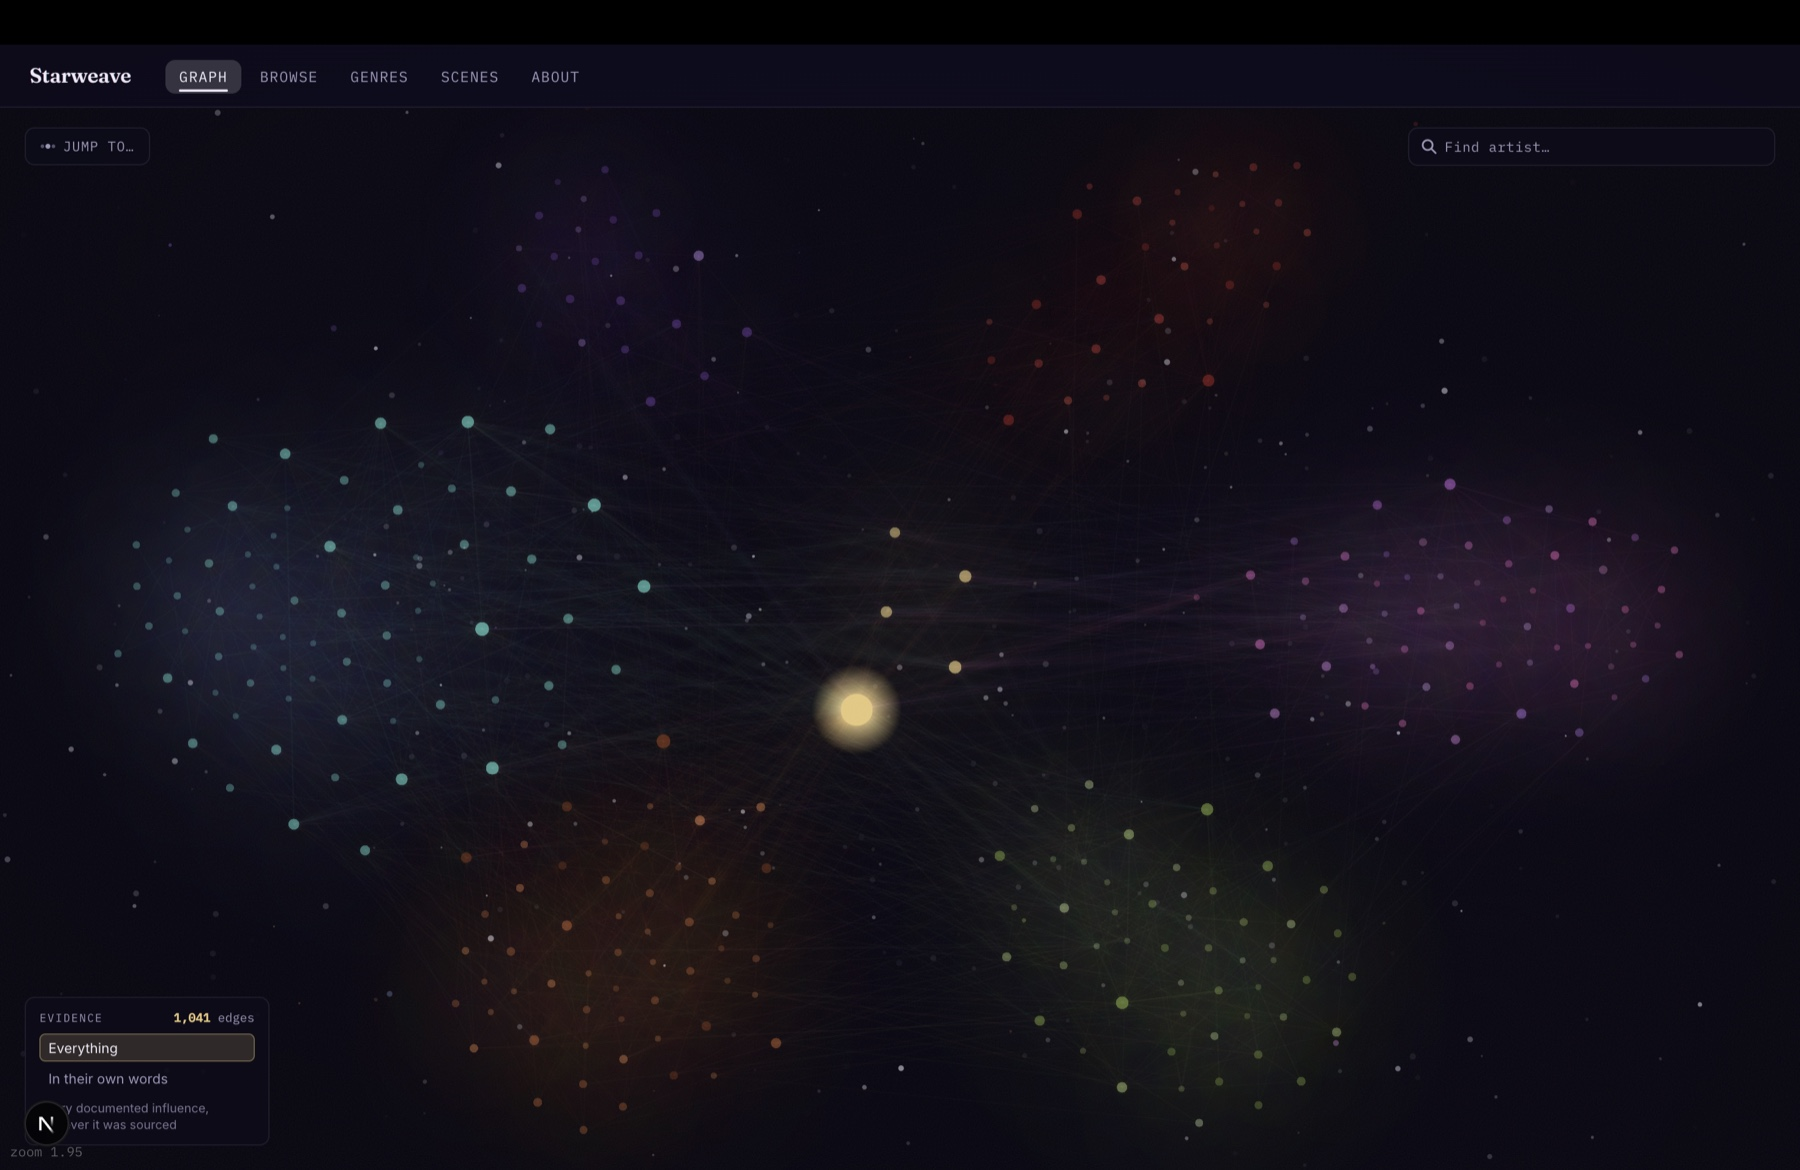
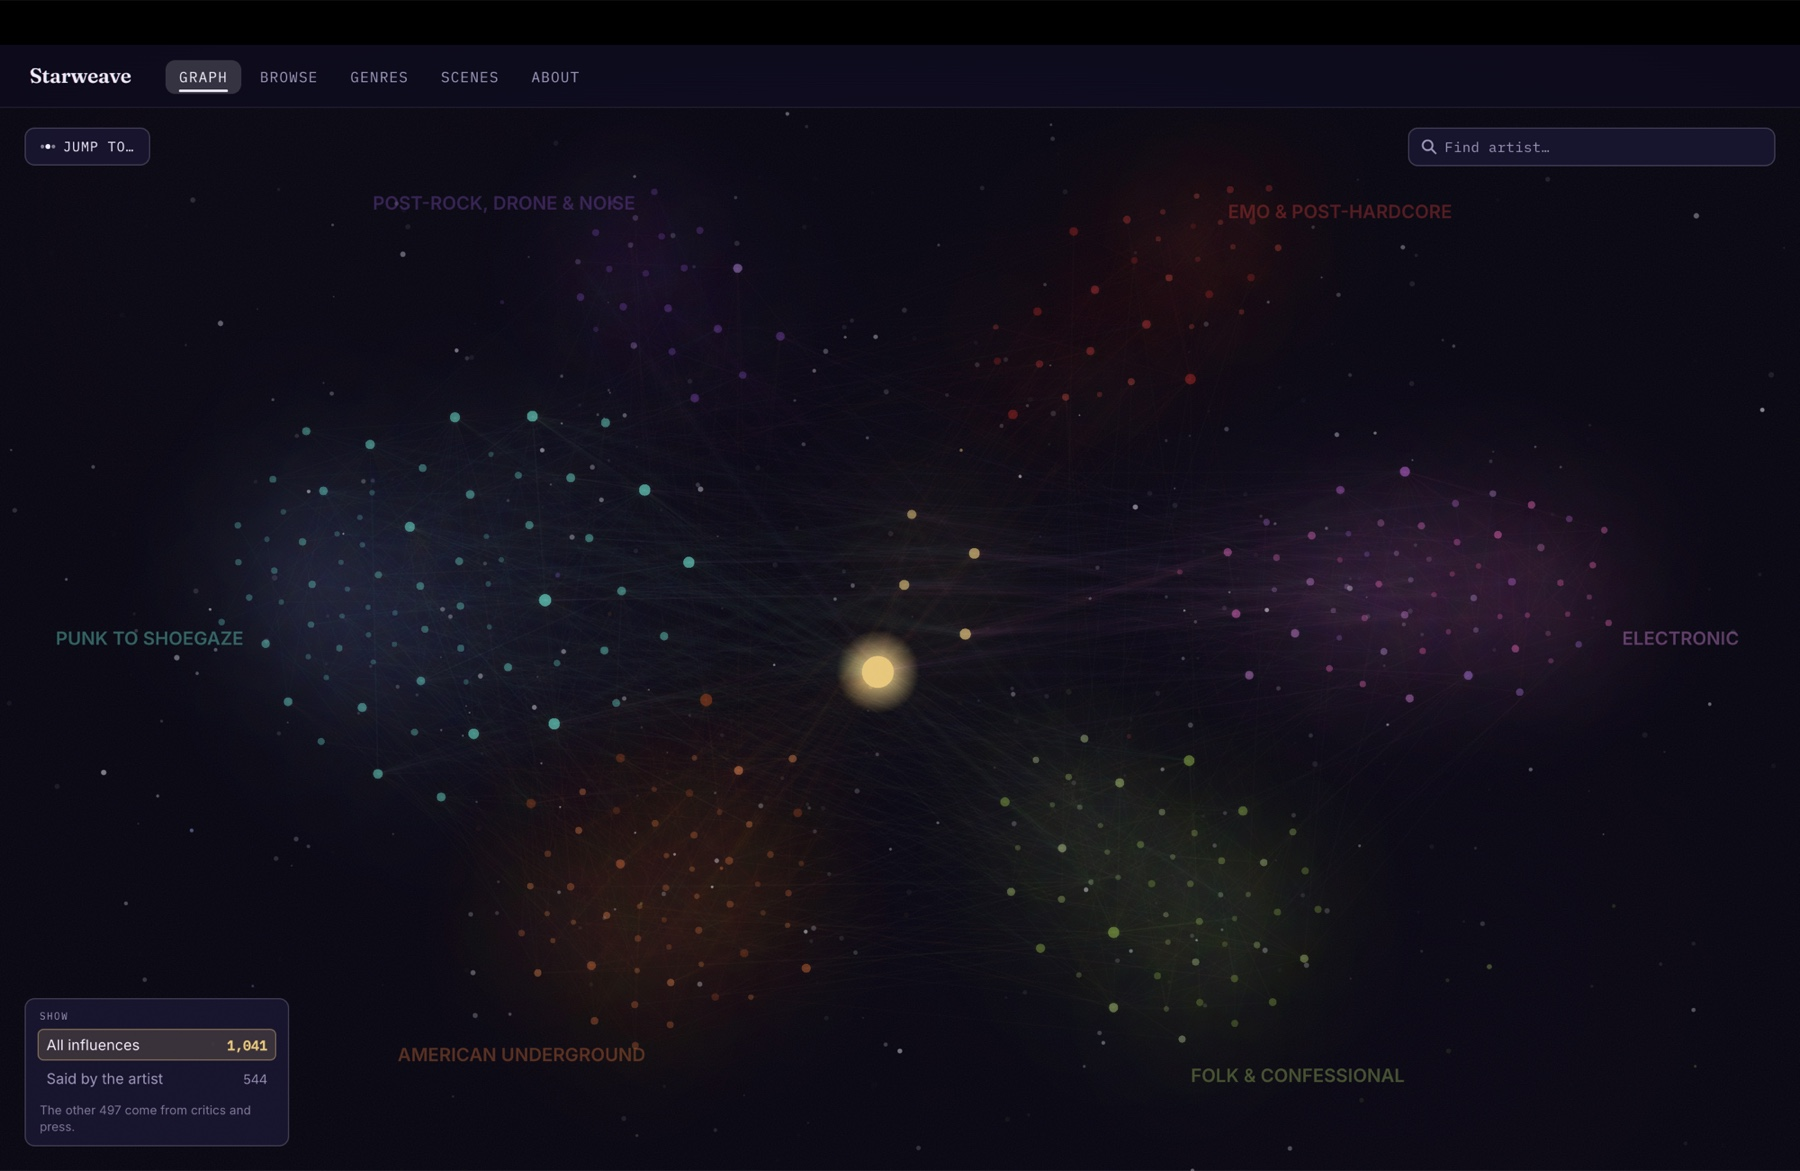
Slim the nav bar; use the labelled constellation as the README hero
Nav goes 52px to 46px for content that is only ~26px tall, and the wordmark gets
line-height: 1. Two causes, not one: the bar was generous, and ChromaTitle is an
inline-block whose box carried the display face's full descender room, so the
letters sat high with a gap underneath and align-items:center could not help --
the box was centred correctly, the glyphs were not centred inside it. Safe to
set flat: that component renders in exactly one place and "Starweave" has no
descenders. --nav-height is a token, so the page shells and the graph canvas
height follow it.

The hero screenshot is replaced with the current overview: six named realms
around the core, the evidence filter reading 1,041 / 544, no zoom readout. The
old one predated the realm labels and showed 293 unexplained coloured dots plus
a dev-only zoom number in the corner. This one explains the graph's structure
without a caption, which is what a hero has to do.

diff --git a/app/globals.css b/app/globals.css
@@ -24,7 +24,7 @@
   --font-body: var(--font-inter), system-ui, sans-serif;
   --font-mono: var(--font-plex-mono), 'Courier New', monospace;
 
-  --nav-height: 52px;
+  --nav-height: 46px;
   --panel-width: 380px;
   --radius: 8px;
   --radius-lg: 14px;
@@ -246,6 +246,13 @@ h3 { font-size: 1.1rem; }
   font-family: var(--font-display);
   color: var(--color-text);
   display: inline-block;
+  /* The inline-block line box otherwise carries the display face's full
+     descender room, which sits below the glyphs -- so "Starweave" rendered
+     high in the nav with a gap underneath it, and align-items:center could not
+     help because the box itself was taller than the letters. Safe to set flat:
+     this component is used in exactly one place (the nav wordmark) and that
+     word has no descenders. */
+  line-height: 1;
 }
 
 .chroma-title--sm {

diff --git a/docs/images/README.md b/docs/images/README.md
@@ -6,7 +6,7 @@ gitignored — they are ~63MB and have no business in git history.
 
 | File | Page | What it shows |
 |---|---|---|
-| `hero-constellation.jpg` | `/` | Whole graph at cloud zoom, all seven realms, evidence filter visible |
+| `hero-constellation.jpg` | `/` | Whole graph at cloud zoom. Realm names must be showing (they fade out above zoom 2.5) and the evidence filter must be in frame bottom-left |
 | `detail-zoom.jpg` | `/` | Zoomed in — photos, names and realm colours resolved |
 | `focus-panel.jpg` | `/` | My Bloody Valentine focused, panel open, **source quote expanded** |
 | `genres-timeline.jpg` | `/genres` | Shoegaze hovered, ancestor chain lit back to garage rock |
@@ -24,12 +24,17 @@ sips -Z 1800 -s format jpeg -s formatOptions 92 "<source>.png" --out <name>.jpg
 macOS screenshot filenames contain a narrow no-break space (U+202F) before "PM",
 so a literal path copied from `ls` will fail — match them with a glob instead.
 
-## Known nit
+## Known nits
 
 A browser extension badge (the dark "N" circle, bottom-left) sits over the last
-line of the evidence filter in `hero-constellation.jpg`, `detail-zoom.jpg` and
-`focus-panel.jpg`. Harmless, but if you ever retake these, disable extensions or
-use a clean Chrome profile first.
+line of the evidence filter in `detail-zoom.jpg` and `focus-panel.jpg`. The hero
+was retaken without it; the other two still have it. Use a clean Chrome profile
+if you redo them.
+
+`hero-constellation.jpg` was captured just before the nav bar went from 52px to
+46px, so its nav is a few pixels taller than the live site. Invisible at a
+glance and not worth a retake on its own -- fold it in whenever the hero is
+next redone.
 
 ## Still worth adding: a demo video
 

diff --git a/README.md b/README.md
@@ -6,7 +6,7 @@
 
 In mainstream music, legacy is measured in sales. In underground music it is measured in descendants: the Velvet Underground's first album famously sold almost nothing, and nearly everyone who bought a copy started a band. Starweave is an attempt to make that claim *checkable* - to render influence as a graph where 887 of its 1,041 edges carry a real, named source you can go and read, and the rest say plainly why they don't.
 
-![The full constellation, all seven realms, with the evidence filter](docs/images/hero-constellation.jpg)
+![The full constellation: six named realms orbiting a core, with the evidence filter bottom-left](docs/images/hero-constellation.jpg)
 
 ---
 
